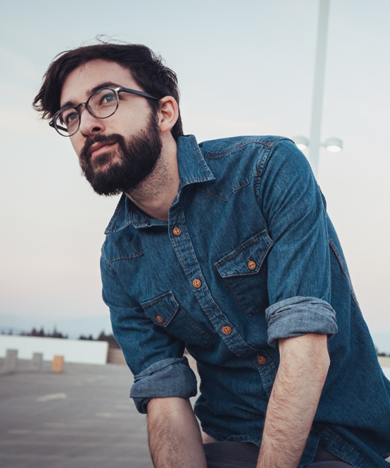
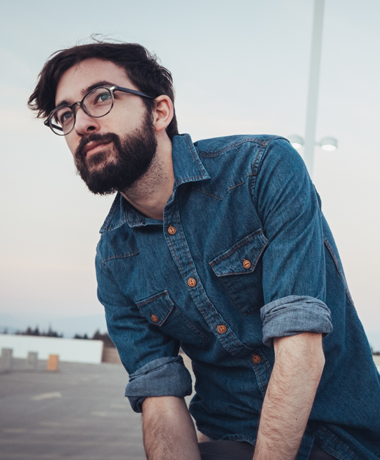
Change image  resolution in mobile

diff --git a/index.html b/index.html
@@ -137,7 +137,10 @@
             <div class="gallery__container">
                 <div class="gallery__img-container">
                     <div class="gallery__img gallery__img--hover-move gallery__img--bg-color">
-                        <img src="/assets/images/man-1.png" alt="Some man">
+                        <picture>
+                            <source media="(max-width:576px)" srcset="/assets/images/mobile/man-1-sm.png">
+                            <img src="/assets/images/man-1.png" alt="Some man">
+                        </picture>
                         <div class="social-media">
                             <a href="#" class="social-media__icon">
                                 <img src="/assets/images/icons/social/facebook.svg" width="26" alt="Facebook icon">
@@ -160,7 +163,10 @@
             <div class="gallery__container">
                 <div class="gallery__img-container">
                     <div class="gallery__img gallery__img--hover-move gallery__img--bg-color">
-                        <img src="/assets/images/man-2.png" alt="Some man">
+                        <picture>
+                            <source media="(max-width:576px)" srcset="/assets/images/mobile/man-2-sm.png">
+                            <img src="/assets/images/man-2.png" alt="Some man">
+                        </picture>
                         <div class="social-media">
                             <a href="#" class="social-media__icon">
                                 <img src="/assets/images/icons/social/facebook.svg" width="26" alt="Facebook icon">
@@ -183,7 +189,10 @@
             <div class="gallery__container">
                 <div class="gallery__img-container">
                     <div class="gallery__img gallery__img--hover-move gallery__img--bg-color">
-                        <img src="/assets/images/man-3.png" alt="Some man">
+                        <picture>
+                            <source media="(max-width:576px)" srcset="/assets/images/mobile/man-3-sm.png">
+                            <img src="/assets/images/man-3.png" alt="Some man">
+                        </picture>
                         <div class="social-media">
                             <a href="#" class="social-media__icon">
                                 <img src="/assets/images/icons/social/facebook.svg" width="26" alt="Facebook icon">
@@ -211,7 +220,7 @@
         </p>
         <form class="footer__form form">
             <input class="form__input" placeholder="Your Email...">
-            <button class="form__submit" type="submit">Subscripte</button>
+            <button class="form__submit" type="submit">Subscribe</button>
         </form>
     </footer>
 

diff --git a/style.css b/style.css
@@ -275,13 +275,11 @@ body, a {
   background-color: #95e1d3;
   position: relative;
   display: block;
-  width: 100%;
+  width: fit-content;
   height: 100%;
 }
-.gallery__img > img {
+.gallery__img img {
   display: block;
-  width: 100%;
-  height: 100%;
 }
 .gallery__img--bg-color::after {
   content: "";
@@ -580,6 +578,7 @@ body, a {
   font-size: 14px;
   color: #ffffff;
   font-weight: 700;
+  letter-spacing: 1px;
   text-transform: uppercase;
   cursor: pointer;
 }

diff --git a/sass/components/_gallery.scss b/sass/components/_gallery.scss
@@ -26,16 +26,13 @@ $transition-time: .4s;
 
         display: block;
 
-        width: 100%;
+        width: fit-content;
         height: 100%;
     }
 
     &__img {
-        > img {
+        img {
             display: block;
-
-            width: 100%;
-            height: 100%;
         }
 
         &--bg-color {

diff --git a/sass/layout/_forms.scss b/sass/layout/_forms.scss
@@ -21,6 +21,8 @@
         font-size: 14px;
         color: $font-color-secondary;
         font-weight: 700;
+        letter-spacing: 1px;
+        
         text-transform: uppercase;
         cursor: pointer;
     }
